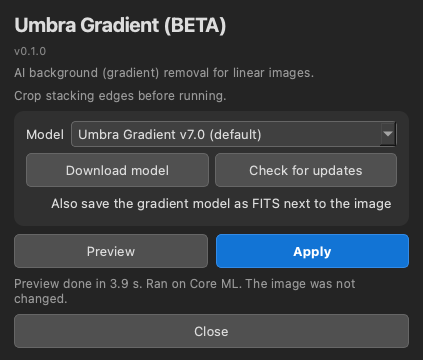
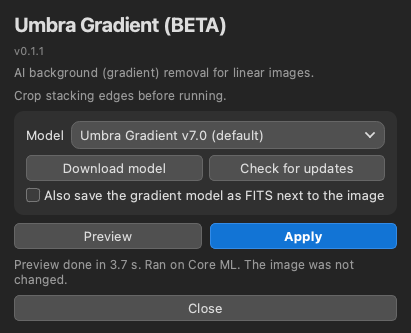
v0.1.1: buttons, check boxes, drop-downs and scroll bars styled like Umbra Astro Studio

Changed region(s): [[0.0584, 0.3303, 0.9635, 0.6006], [0.0292, 0.6306, 0.9927, 0.961], [0.0292, 0.03, 0.7591, 0.3003]]

diff --git a/Umbra_Gradient.py b/Umbra_Gradient.py
@@ -7,8 +7,9 @@ Run in Siril (Scripts menu), or standalone:
   python Umbra_Gradient.py --image in.fits --out out.fits [--model PATH.onnx] [--gradient-out model.fits]
   python Umbra_Gradient.py --ui-test        (opens the window on a fake image, runs Preview once, exits)
   python Umbra_Gradient.py --check-updates | --download [MODEL_ID|all]"""
-VERSION = '0.1.0'
-# First family release (ONNX Runtime, no PyTorch, replaces Umbra BGNet): whole-image Preview, optional gradient-model FITS.
+VERSION = '0.1.1'
+# 0.1.1: buttons, check boxes, drop-down menus and scroll bars now look the same as in Umbra Astro Studio.
+# 0.1.0: First family release (ONNX Runtime, no PyTorch, replaces Umbra BGNet): whole-image Preview, optional gradient-model FITS.
 # ============================================================================================ shared code (src/common.py)
 # Everything the five scripts share: dependency install, ONNX Runtime sessions, updater, preferences, Siril I/O, family UI, CLI.
 import sys, os, json, hashlib, argparse, time, math, re, types
@@ -710,20 +711,34 @@ def to_rgb8(img, params, flip=False):
 STYLE = """
 QWidget { background: #242424; color: #dddddd; font-size: 10pt; }
 QWidget#Card { background: #303030; border-radius: 10px; }
-QLabel, QCheckBox, QSlider { background: transparent; }
+QLabel, QCheckBox, QRadioButton, QSlider { background: transparent; }
 QLabel#Title { font-size: 15pt; font-weight: bold; color: #dddddd; }
 QLabel#Badge { color: #888888; font-size: 8pt; }
 QLabel#Note { color: #999999; font-size: 9pt; }
 QLabel#Value { color: #dddddd; font-weight: bold; min-width: 40px; }
 QLabel#Caption { color: #aaaaaa; font-size: 9pt; }
-QComboBox { background: #404040; border: 1px solid #666666; border-radius: 4px; padding: 3px 6px; }
-QComboBox QAbstractItemView { background: #303030; selection-background-color: #1274d5; }
-QPushButton { min-height: 20px; background: #505050; border: 1px solid #666666; border-radius: 5px; padding: 6px 12px; }
+QToolTip { color: #dddddd; background: #404040; border: 1px solid #666666; padding: 6px; }
+QCheckBox { spacing: 4px; background: transparent; }
+QCheckBox::indicator { width: 12px; height: 12px; border: 1px solid #777777; border-radius: 3px; background: #3c3c3c; }
+QCheckBox::indicator:checked { background: #1679db; border-color: #6eb5ff; }
+QCheckBox::indicator:disabled { border-color: #555555; background: #2e2e2e; }
+QComboBox { background: transparent; border: none; padding: 5px 25px 5px 9px; min-height: 18px; }
+QComboBox QAbstractItemView { background: #3d3d3d; color: #dddddd; border: 1px solid #666666; border-radius: 9px; padding: 5px; selection-background-color: #1679db; outline: 0; }
+QComboBox QAbstractItemView::item { padding: 5px 8px; border-radius: 5px; }
+QPushButton { background: #505050; border: 1px solid #666666; border-radius: 5px; padding: 4px 7px; }
 QPushButton:hover { background: #616161; }
-QPushButton:checked { background: #1274d5; border-color: #338be7; color: #ffffff; }
+QPushButton:checked { background: #1474d5; border-color: #358eef; }
 QPushButton:disabled { color: #777777; border-color: #444444; }
-QPushButton#Apply { min-height: 20px; background: #1274d5; color: #ffffff; font-weight: bold; border-color: #338be7; }
+QPushButton#Apply { background: #1274d5; color: #ffffff; font-weight: bold; border-color: #338be7; }
 QPushButton#Apply:disabled { background: #354656; color: #808890; border-color: #43505c; }
+QScrollArea { border: none; background: #242424; }
+QScrollBar:vertical { background: #242424; width: 8px; margin: 0; }
+QScrollBar::handle:vertical { background: #555555; border-radius: 4px; min-height: 24px; }
+QScrollBar::add-line:vertical, QScrollBar::sub-line:vertical { height: 0; }
+QScrollBar:horizontal { background: #242424; height: 8px; margin: 0; }
+QScrollBar::handle:horizontal { background: #555555; border-radius: 4px; min-width: 24px; }
+QScrollBar::add-line:horizontal, QScrollBar::sub-line:horizontal { width: 0; }
+QScrollBar::add-page:horizontal, QScrollBar::sub-page:horizontal, QScrollBar::add-page:vertical, QScrollBar::sub-page:vertical { background: transparent; }
 QSlider::groove:horizontal { height: 4px; background: #505050; border-radius: 2px; }
 QSlider::sub-page:horizontal { background: #1474d5; border-radius: 2px; }
 QSlider::handle:horizontal { background: #dddddd; width: 14px; margin: -6px 0; border-radius: 7px; }
@@ -745,6 +760,45 @@ def _qt():
     from PyQt6.QtGui import QImage, QPixmap
     from PyQt6.QtWidgets import (QApplication, QWidget, QLabel, QVBoxLayout, QHBoxLayout, QPushButton, QSlider, QProgressBar,
                                  QComboBox, QCheckBox, QSizePolicy, QStackedWidget, QMenu, QLayout)
+
+    from PyQt6.QtCore import QPointF, QRectF
+    from PyQt6.QtGui import QPainter, QPen, QColor
+    from PyQt6.QtWidgets import QListView, QFrame
+
+    class ModernComboBox(QComboBox):
+        """Rounded drop-down, drawn the same on every platform (same look as Umbra Astro Studio)."""
+        def __init__(self, parent=None):
+            super().__init__(parent)
+            self.setMinimumHeight(28)
+            self.setCursor(Qt.CursorShape.PointingHandCursor)
+            view = QListView(self); view.setFrameShape(QFrame.Shape.NoFrame); view.setSpacing(1); self.setView(view)
+
+        def paintEvent(self, event):
+            p = QPainter(self); p.setRenderHint(QPainter.RenderHint.Antialiasing)
+            p.setPen(QPen(QColor('#4398ed') if self.hasFocus() else QColor('#666666'), 1))
+            p.setBrush(QColor('#606060') if (self.underMouse() and self.isEnabled()) else QColor('#505050'))
+            p.drawRoundedRect(QRectF(.5, .5, self.width() - 1, self.height() - 1), 8, 8)
+            p.setPen(QColor('#dddddd') if self.isEnabled() else QColor('#888888')); p.setFont(self.font())
+            text = self.fontMetrics().elidedText(self.currentText(), Qt.TextElideMode.ElideRight, max(1, self.width() - 35))
+            p.drawText(self.rect().adjusted(9, 0, -27, 0), Qt.AlignmentFlag.AlignVCenter | Qt.AlignmentFlag.AlignLeft, text)
+            cx, cy = self.width() - 15, self.height() / 2
+            p.setPen(QPen(QColor('#dddddd') if self.isEnabled() else QColor('#888888'), 1.7))
+            p.drawLine(QPointF(cx - 4, cy - 2), QPointF(cx, cy + 2)); p.drawLine(QPointF(cx, cy + 2), QPointF(cx + 4, cy - 2)); p.end()
+
+        def enterEvent(self, event):
+            super().enterEvent(event); self.update()
+
+        def leaveEvent(self, event):
+            super().leaveEvent(event); self.update()
+
+        def showPopup(self):
+            super().showPopup()
+            container = self.view().window()
+            container.setAttribute(Qt.WidgetAttribute.WA_TranslucentBackground, True)
+            container.setObjectName('RoundedComboPopup')
+            container.setStyleSheet('QFrame#RoundedComboPopup {background:#3d3d3d;border:1px solid #666666;border-radius:10px;padding:4px;} '
+                                    'QListView {background:#3d3d3d;color:#dddddd;border:none;border-radius:7px;padding:3px;outline:0;} '
+                                    'QListView::item {padding:5px 8px;border-radius:5px;} QListView::item:selected {background:#1679db;}')
 
     class Worker(QThread):
         done = pyqtSignal(object, object, float, str, object)
@@ -911,7 +965,7 @@ def _qt():
             row = QHBoxLayout()
             label = QLabel(text)
             row.addWidget(label)
-            cb = QComboBox()
+            cb = ModernComboBox()
             for t, v in items:
                 cb.addItem(t, v)
             if tip:
@@ -973,16 +1027,16 @@ def _qt():
             cl.setContentsMargins(12, 10, 12, 12)
             mrow = QHBoxLayout()
             mrow.addWidget(QLabel('Model'))
-            self.model_box = QComboBox()
+            self.model_box = ModernComboBox()
             mrow.addWidget(self.model_box, 1)
             cl.addLayout(mrow)
             brow = QHBoxLayout()
             self.dl_btn = QPushButton('Download model')
-            self.dl_btn.setMinimumHeight(30)
+            self.dl_btn.setMinimumHeight(26)
             self.dl_btn.setToolTip("Download a model from this project's GitHub releases (checked against a SHA-256 before it is installed).")
             self.dl_btn.clicked.connect(self.show_dl_menu)
             self.upd_btn = QPushButton('Check for updates')
-            self.upd_btn.setMinimumHeight(30)
+            self.upd_btn.setMinimumHeight(26)
             self.upd_btn.setToolTip('Looks for newer models and a newer script. Nothing is downloaded or replaced until you ask.')
             self.upd_btn.clicked.connect(lambda: self.fetch_info(manual=True))
             brow.addWidget(self.dl_btn); brow.addWidget(self.upd_btn)
@@ -1349,7 +1403,7 @@ def _qt():
                 tl.addWidget(QLabel(f'v{VERSION}', objectName='Badge'))
                 row = QHBoxLayout()
                 row.addWidget(QLabel('Tool'))
-                self.tool_box = QComboBox()
+                self.tool_box = ModernComboBox()
                 for s in specs:
                     self.tool_box.addItem(s.name, s.key)
                 row.addWidget(self.tool_box, 1)

diff --git a/README.md b/README.md
@@ -2,7 +2,7 @@
 
 Umbra Gradient is an AI background (gradient) remover for linear images in [Siril](https://siril.org). It is a Siril Python script with an AI model. It runs locally on your computer and is free. It removes sky glow, light pollution and flat-field problems while trying to keep faint nebulosity, dark nebulae and true colour.
 
-**Status: Beta (v0.1.0).** Expect rough edges.
+**Status: Beta (v0.1.1).** Expect rough edges.
 
 ![Umbra Gradient panel](docs/screenshots/Umbra_Gradient_panel.png)
 
@@ -84,7 +84,7 @@ Parity with the original PyTorch version: the corrected image differs by at most
 
 ## Layout
 
-- `Umbra_Gradient.py`: the script (v0.1.0, ONNX Runtime, with model download and update check)
+- `Umbra_Gradient.py`: the script (v0.1.1, ONNX Runtime, with model download and update check)
 - `models/models.json`: model manifest (name, version, download URL, SHA-256, size)
 - `docs/screenshots/`: panel screenshots
 - `LICENSE`, `LICENSE-MODELS.md`: licenses
